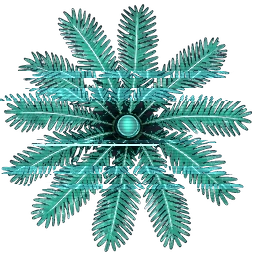
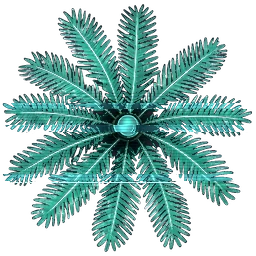
Stardust: land art batch 3 (janitor player in the new game, glitch states at the subtle strength) with tests

Changed region(s): [[0.0, 0.2188, 0.9688, 0.4375], [0.0, 0.625, 0.9688, 0.7812], [0.0312, 0.4688, 0.9688, 0.5938]]

diff --git a/projects/Space-Shooter/voyage/onfoot/assets.js b/projects/Space-Shooter/voyage/onfoot/assets.js
@@ -49,8 +49,21 @@ export const captainLookId = lookId => (CAPTAIN_LOOKS[lookId] ? lookId : LOOK_AL
 let captainLook = 'cap-a';
 /** Choose which captain look castImage('captain') draws (the page calls this with save.character.look.portrait). */
 export const setCaptainLook = lookId => { captainLook = captainLookId(lookId); };
-/** The captain's top-down sprite image for a look id (default: the current look, else cap-a), or null while loading. */
-export const captainSprite = (lookId = captainLook) => loadImage(at(`cast/${CAPTAIN_LOOKS[captainLookId(lookId)]}`));
+// The new game's player is the janitor (launch art batch 3): the same four looks as colours (cap-a..cap-d -> janitor-a..d,
+// 128 px, faces up, body 78 px like Nessa) drawn at scale 2.0, 110% of Nessa's height. Today's game and ?start=hangar keep the
+// pilot looks; the page turns this on only when it starts the opening (boot.js `slicing`).
+export const JANITOR_LOOKS = Object.freeze({ 'cap-a': 'janitor-a.webp', 'cap-b': 'janitor-b.webp', 'cap-c': 'janitor-c.webp', 'cap-d': 'janitor-d.webp' });
+export const JANITOR_SCALE = 2.0;
+let janitorOn = false;
+/** Draw the player as the janitor (true: the new game's opening) or as the pilot captain (false: today's game). */
+export const setJanitorPlayer = on => { janitorOn = Boolean(on); };
+/** The player's sprite file and draw scale: { file, scale }. Defaults to the current look and mode. */
+export function playerArt({ janitor = janitorOn, lookId = captainLook } = {}) {
+  const id = captainLookId(lookId);
+  return janitor ? { file: JANITOR_LOOKS[id], scale: JANITOR_SCALE } : { file: CAPTAIN_LOOKS[id], scale: CAST_LOOK.captain.scale };
+}
+/** The player's top-down sprite image for a look id (default: the current look, else cap-a; the janitor in the new game), or null while loading. */
+export const captainSprite = (lookId = captainLook) => loadImage(at(`cast/${playerArt({ lookId }).file}`));
 
 // Canvas side in px at which each sprite's figure stands 72 px tall (Ralph 56, Vey and Garrity 84),
 // from scripts/stardust-art.py. drawBody draws a sprite at 46 * scale, so scale = side / 46.

diff --git a/projects/Space-Shooter/voyage/onfoot/world.js b/projects/Space-Shooter/voyage/onfoot/world.js
@@ -14,7 +14,7 @@ import { enterMap, MAP_DEFS } from '../maps/index.js';
 import { createWalker, stepWalker, stepNpc, WALK } from './rules/walk.js';
 import { createFight, stepFight, STEP, ENEMY_TYPES } from './rules/shooter.js';
 import { buildStaticLayer, buildVignette, drawBody, drawContained, castSprite, castLook } from './draw.js';
-import { sprite, playerFrames, preload, onArtLoaded, captainSprite } from './assets.js';
+import { sprite, playerFrames, preload, onArtLoaded, captainSprite, playerArt } from './assets.js';
 import { fitCanvas, viewZoom, cameraFor } from './viewport.js';
 import { createInput } from './input.js';
 import { createEl } from './dom.js';
@@ -521,7 +521,7 @@ export function createWorld({ root, mapId = 'hangar', spawn = 'default', hooks =
     const frames = playerFrames();
     const img = cap || (moving ? frames[Math.floor(stride) % 4] || frames[0] : frames[0]);
     if (ghost) ctx.globalAlpha = 0.6;
-    drawBody(ctx, x, y, angle, img, { size: cap ? 46 * castLook('captain').scale : 52, t, moving, stride, hit, tint: '#81e6df' });
+    drawBody(ctx, x, y, angle, img, { size: cap ? 46 * playerArt().scale : 52, t, moving, stride, hit, tint: '#81e6df' });
     ctx.globalAlpha = 1;
     if (fight && !fight.ended) {
       // A short laser sight: where you're aiming.

diff --git a/projects/Space-Shooter/voyage/boot.js b/projects/Space-Shooter/voyage/boot.js
@@ -47,7 +47,7 @@ import { QUESTS } from './quests/data/quests/index.js';
 import { registerShops } from './shops/ui.js';
 import { registerRaceLaunches } from './races/hangarLaunches.js';
 import { createOnFoot, TARGETS_IN_ORDER } from './onfoot/onfoot.js';
-import { setCaptainLook } from './onfoot/assets.js';
+import { setCaptainLook, setJanitorPlayer } from './onfoot/assets.js';
 import { PLACES } from './explore/rules.js';
 import { MAP_DEFS } from './maps/index.js';
 // Round 3 basics: the bag and datapad, the quest tracker, the controls card and the pause sheet.
@@ -139,6 +139,7 @@ function boot(session = { mode: 'local' }) {
   // Launch slice: a fresh save opened with ?newgame=1 starts as the janitor on the Tin Duchess (?start=hangar keeps the hangar start).
   const slicing = wantsSlice({ save: store.get(), params, throwaway, newGame: flag.enabled });
   if (slicing) startSlice(store);
+  setJanitorPlayer(slicing); // the new game's player is the janitor; today's game and ?start=hangar keep the pilot
   let slice = null;
 
   const chip = $('vy-sync');
